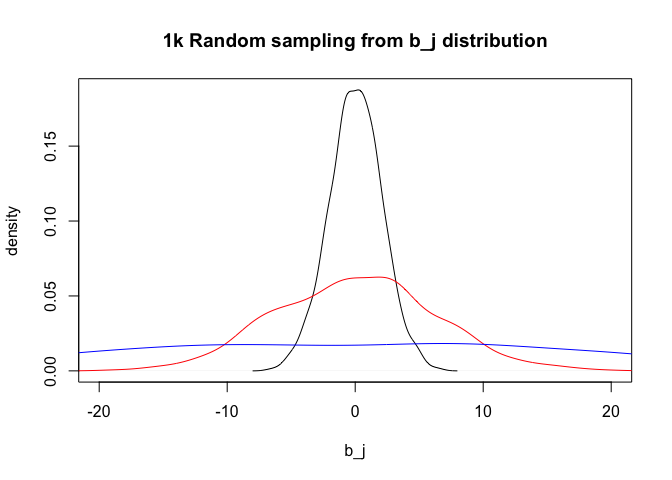
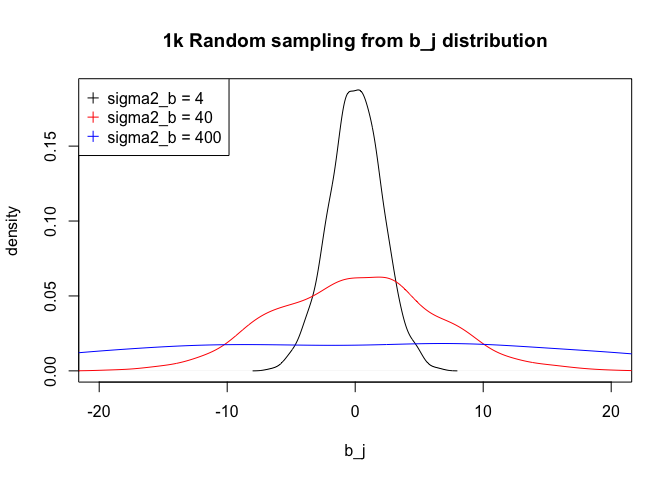
added comments after talk

Changed region(s): [[0.125, 0.1875, 0.3438, 0.3125]]

diff --git a/README.md b/README.md
@@ -16,9 +16,11 @@ Anna Quaglieri
     -   [Comments](#comments)
 -   [Simulate four batches](#simulate-four-batches)
     -   [High disease effect and low between batches variability](#high-disease-effect-and-low-between-batches-variability)
+    -   [Block as random effect](#block-as-random-effect-1)
     -   [High disease effect and high between batches variability](#high-disease-effect-and-high-between-batches-variability)
     -   [Low disease effect and high between batches variability](#low-disease-effect-and-high-between-batches-variability)
     -   [Low disease effect and low between batches variability](#low-disease-effect-and-low-between-batches-variability)
+    -   [Comments](#comments-1)
 
 Confounded design
 =================
@@ -190,8 +192,8 @@ summary(mod1)
 
 ``` r
 mod1 <- lm(value ~ factor(Treatment),data=x[x$blocks == 1,])
-sigma <- sum(mod1$residuals^2)/(nrow(x[x$blocks == 0,])-2)
-x2 <- x[x$blocks == 0,]
+sigma <- sum(mod1$residuals^2)/(nrow(x[x$blocks == 1,])-2)
+x2 <- x[x$blocks == 1,]
 x2[,2] <- as.numeric(as.character(x2[,2]))
 X <- as.matrix(cbind(1,x2[,2]))
 
@@ -202,8 +204,9 @@ sqrt(unscaled_var*sigma)
 
     ## Warning in sqrt(unscaled_var * sigma): NaNs produced
 
-    ##      [,1]
-    ## [1,]  NaN
+    ##           [,1]      [,2]
+    ## [1,] 0.1960459       NaN
+    ## [2,]       NaN 0.2772508
 
 ``` r
 summary(mod1)
@@ -326,6 +329,7 @@ set.seed(100)
 plot(density(rnorm(1000,mean = 0,sd = sqrt(4))),xlab="b_j",ylab="density",main="1k Random sampling from b_j distribution",xlim=c(-20,20))
 lines(density(rnorm(1000,mean = 0,sd = sqrt(40))),col=2)
 lines(density(rnorm(1000,mean = 0,sd = sqrt(400))),col=4)
+legend("topleft",legend=c("sigma2_b = 4","sigma2_b = 40","sigma2_b = 400"),pch = rep(3,16),col=c(1,2,4))
 ```
 
 ![](README_files/figure-markdown_github/unnamed-chunk-14-1.png)
@@ -340,7 +344,7 @@ sigma2_b <- 4
 sigma2_e <- 4
 ```
 
--   Random *b*<sub>*j**s*</sub>. The random intercepts below are quite close to each other, meaning that the batch effect might not be that small. The random effects could be increases by increasing *s**i**g**m**a*<sub>*b*</sub>
+-   Random *b*<sub>*j**s*</sub>. The random intercepts below are quite close to each other, meaning that the batch effect will be quite small. The random effects could be increased by increasing *s**i**g**m**a*<sub>*b*</sub>
 
 ``` r
 set.seed(100)
@@ -387,22 +391,22 @@ table(datax$Treatment,datax$blocks)
     ##   1 25  0
 
 ``` r
-summary(lm(value ~ Treatment + blocks,data=datax))
+summary(lm(value ~ factor(Treatment) + factor(blocks),data=datax))
 ```
 
     ## 
     ## Call:
-    ## lm(formula = value ~ Treatment + blocks, data = datax)
+    ## lm(formula = value ~ factor(Treatment) + factor(blocks), data = datax)
     ## 
     ## Residuals:
     ##     Min      1Q  Median      3Q     Max 
     ## -3.3889 -1.0925 -0.0366  1.1621  4.4042 
     ## 
     ## Coefficients:
-    ##             Estimate Std. Error t value Pr(>|t|)    
-    ## (Intercept)  -0.7880     0.3120  -2.526  0.01373 *  
-    ## Treatment1    8.0000     0.4412  18.133  < 2e-16 ***
-    ## blocks2       1.3820     0.4412   3.133  0.00251 ** 
+    ##                    Estimate Std. Error t value Pr(>|t|)    
+    ## (Intercept)         -0.7880     0.3120  -2.526  0.01373 *  
+    ## factor(Treatment)1   8.0000     0.4412  18.133  < 2e-16 ***
+    ## factor(blocks)2      1.3820     0.4412   3.133  0.00251 ** 
     ## ---
     ## Signif. codes:  0 '***' 0.001 '**' 0.01 '*' 0.05 '.' 0.1 ' ' 1
     ## 
@@ -504,22 +508,22 @@ table(datax$Treatment,datax$blocks)
     ##   1 25  0
 
 ``` r
-summary(lm(value ~ Treatment + blocks,data=datax))
+summary(lm(value ~ factor(Treatment) + factor(blocks),data=datax))
 ```
 
     ## 
     ## Call:
-    ## lm(formula = value ~ Treatment + blocks, data = datax)
+    ## lm(formula = value ~ factor(Treatment) + factor(blocks), data = datax)
     ## 
     ## Residuals:
     ##     Min      1Q  Median      3Q     Max 
     ## -3.3889 -1.0925 -0.0366  1.1621  4.4042 
     ## 
     ## Coefficients:
-    ##             Estimate Std. Error t value Pr(>|t|)    
-    ## (Intercept)  -2.9598     0.3120  -9.488 2.60e-14 ***
-    ## Treatment1    8.0000     0.4412  18.133  < 2e-16 ***
-    ## blocks2       4.1226     0.4412   9.345 4.78e-14 ***
+    ##                    Estimate Std. Error t value Pr(>|t|)    
+    ## (Intercept)         -2.9598     0.3120  -9.488 2.60e-14 ***
+    ## factor(Treatment)1   8.0000     0.4412  18.133  < 2e-16 ***
+    ## factor(blocks)2      4.1226     0.4412   9.345 4.78e-14 ***
     ## ---
     ## Signif. codes:  0 '***' 0.001 '**' 0.01 '*' 0.05 '.' 0.1 ' ' 1
     ## 
@@ -615,22 +619,22 @@ table(datax$Treatment,datax$blocks)
     ##   1 25  0
 
 ``` r
-summary(lm(value ~ Treatment + blocks,data=datax))
+summary(lm(value ~ factor(Treatment) + factor(blocks),data=datax))
 ```
 
     ## 
     ## Call:
-    ## lm(formula = value ~ Treatment + blocks, data = datax)
+    ## lm(formula = value ~ factor(Treatment) + factor(blocks), data = datax)
     ## 
     ## Residuals:
     ##     Min      1Q  Median      3Q     Max 
     ## -3.3889 -1.0925 -0.0366  1.1621  4.4042 
     ## 
     ## Coefficients:
-    ##             Estimate Std. Error t value Pr(>|t|)    
-    ## (Intercept)  -9.8275     0.3120  -31.50   <2e-16 ***
-    ## Treatment1    8.0000     0.4412   18.13   <2e-16 ***
-    ## blocks2      12.7891     0.4412   28.99   <2e-16 ***
+    ##                    Estimate Std. Error t value Pr(>|t|)    
+    ## (Intercept)         -9.8275     0.3120  -31.50   <2e-16 ***
+    ## factor(Treatment)1   8.0000     0.4412   18.13   <2e-16 ***
+    ## factor(blocks)2     12.7891     0.4412   28.99   <2e-16 ***
     ## ---
     ## Signif. codes:  0 '***' 0.001 '**' 0.01 '*' 0.05 '.' 0.1 ' ' 1
     ## 
@@ -674,10 +678,18 @@ Comments
 
 -   In the examples above we increased *s**i**g**m**a*<sub>*b*</sub><sup>2</sup> to allow for higher variability between batches. It is interesting to observe that, as the variability between batches tends to infinity, the effect size estimated by the mixed model approaches the fixed effect estimate.
 
--   One intuitive way to think about it
+-   This case is very limited in how accurately we the *σ*<sub>*b*</sub><sup>2</sup> and *σ*<sub>*e*</sub><sup>2</sup> are estimated since we only have 2 observations (2 blocks) from which we have to estimate both of them. Both blocks contain both *σ*<sub>*b*</sub><sup>2</sup> + *σ*<sub>*e*</sub><sup>2</sup>. That's why they are so different in the REML estimate. There are still a lot of issues in the way these two components are estimated (Terry's is trying to figure out the algebra). This could be also a problem in the way the actual std.error estimates of the estimators are estimated and we might doubt a fixed effects model with only two blocks.
+
+-   **But, does this problem becomes better if we have two blocks but across thousands of genes? The assumption done in Limma-Dupl correlations is that the *ρ* is the same across genes. Does that increase the number that we use to make estimates?** - to be better understood maybe by
+
+-   The use of fixed and random really depends on the context in which we are. Say, that in this case we only have two batches, that's all we got, then the fixed effect way is the closest approach that we can use. If we instead think that these two batches are two random observations out of a common distribution then the random effect is the design that you would think of. In the fixed effect we use one block as the baseline and we estimate the batch effect as a delta of difference in the other batches. However, with the random model we assign its own *b*<sub>*j*</sub> to every batch.
 
 Simulate four batches
 =====================
+
+![](img/four-batches.png)
+
+-   Identifiability issue raised by Jinjin. The random variable from every batch will have the same sum of *σ*<sub>*b*</sub><sup>2</sup> + *σ*<sub>*e**p**s**i**l**o**n*</sub><sup>2</sup> and that's why their estimation does not happen in the usual way as in the OLS.
 
 High disease effect and low between batches variability
 -------------------------------------------------------
@@ -748,6 +760,69 @@ ggplot(datax,aes(x=factor(blocks),y=value,fill=factor(Treatment))) + geom_boxplo
 
 ![](README_files/figure-markdown_github/unnamed-chunk-35-1.png)
 
+``` r
+mod1 <- lm(value ~ factor(Treatment) + factor(blocks),data=datax)
+
+summary(mod1)
+```
+
+    ## 
+    ## Call:
+    ## lm(formula = value ~ factor(Treatment) + factor(blocks), data = datax)
+    ## 
+    ## Residuals:
+    ##      Min       1Q   Median       3Q      Max 
+    ## -2.39630 -0.76240 -0.03108  0.82316  3.12778 
+    ## 
+    ## Coefficients:
+    ##                    Estimate Std. Error t value Pr(>|t|)    
+    ## (Intercept)         -0.5437     0.1749  -3.108  0.00217 ** 
+    ## factor(Treatment)1  29.9730     0.1749 171.330  < 2e-16 ***
+    ## factor(blocks)2      0.9637     0.2766   3.484  0.00061 ***
+    ## factor(blocks)3      0.5986     0.2143   2.794  0.00573 ** 
+    ## factor(blocks)4      2.0048     0.2143   9.357  < 2e-16 ***
+    ## factor(blocks)5      0.8621     0.2766   3.117  0.00211 ** 
+    ## ---
+    ## Signif. codes:  0 '***' 0.001 '**' 0.01 '*' 0.05 '.' 0.1 ' ' 1
+    ## 
+    ## Residual standard error: 1.071 on 194 degrees of freedom
+    ## Multiple R-squared:  0.9947, Adjusted R-squared:  0.9946 
+    ## F-statistic:  7348 on 5 and 194 DF,  p-value: < 2.2e-16
+
+Block as random effect
+----------------------
+
+``` r
+datax$blocks <- factor(datax$blocks)
+fm1 <- lmer(value ~ factor(Treatment) + (1 | blocks), data = datax)
+summary(fm1)
+```
+
+    ## Linear mixed model fit by REML ['lmerMod']
+    ## Formula: value ~ factor(Treatment) + (1 | blocks)
+    ##    Data: datax
+    ## 
+    ## REML criterion at convergence: 609.6
+    ## 
+    ## Scaled residuals: 
+    ##      Min       1Q   Median       3Q      Max 
+    ## -2.23137 -0.70820 -0.03701  0.75827  2.92730 
+    ## 
+    ## Random effects:
+    ##  Groups   Name        Variance Std.Dev.
+    ##  blocks   (Intercept) 0.5194   0.7207  
+    ##  Residual             1.1472   1.0711  
+    ## Number of obs: 200, groups:  blocks, 5
+    ## 
+    ## Fixed effects:
+    ##                    Estimate Std. Error t value
+    ## (Intercept)          0.3421     0.3362   1.018
+    ## factor(Treatment)1  29.9715     0.1735 172.766
+    ## 
+    ## Correlation of Fixed Effects:
+    ##             (Intr)
+    ## fctr(Trtm)1 -0.157
+
 High disease effect and high between batches variability
 --------------------------------------------------------
 
@@ -815,41 +890,36 @@ datax <- data.frame(value = value,
 ggplot(datax,aes(x=factor(blocks),y=value,fill=factor(Treatment))) + geom_boxplot()
 ```
 
-![](README_files/figure-markdown_github/unnamed-chunk-37-1.png)
+![](README_files/figure-markdown_github/unnamed-chunk-39-1.png)
 
 ``` r
-summary(lm(value ~ Treatment + blocks,data=datax))
+summary(lm(value ~ factor(Treatment) + factor(blocks),data=datax))
 ```
 
     ## 
     ## Call:
-    ## lm(formula = value ~ Treatment + blocks, data = datax)
+    ## lm(formula = value ~ factor(Treatment) + factor(blocks), data = datax)
     ## 
     ## Residuals:
-    ##    Min     1Q Median     3Q    Max 
-    ## -9.079 -3.464 -1.509  5.120  9.697 
+    ##      Min       1Q   Median       3Q      Max 
+    ## -2.39630 -0.76240 -0.03108  0.82316  3.12778 
     ## 
     ## Coefficients:
-    ##             Estimate Std. Error t value Pr(>|t|)    
-    ## (Intercept)  -9.7794     0.9080  -10.77   <2e-16 ***
-    ## Treatment    31.1225     0.7403   42.04   <2e-16 ***
-    ## blocks        3.8441     0.2628   14.62   <2e-16 ***
+    ##                    Estimate Std. Error t value Pr(>|t|)    
+    ## (Intercept)         -6.9356     0.1749  -39.65   <2e-16 ***
+    ## factor(Treatment)1  29.9730     0.1749  171.33   <2e-16 ***
+    ## factor(blocks)2      9.0297     0.2766   32.64   <2e-16 ***
+    ## factor(blocks)3      5.9860     0.2143   27.94   <2e-16 ***
+    ## factor(blocks)4     19.6836     0.2143   91.87   <2e-16 ***
+    ## factor(blocks)5      8.7428     0.2766   31.61   <2e-16 ***
     ## ---
     ## Signif. codes:  0 '***' 0.001 '**' 0.01 '*' 0.05 '.' 0.1 ' ' 1
     ## 
-    ## Residual standard error: 5.033 on 197 degrees of freedom
-    ## Multiple R-squared:  0.9043, Adjusted R-squared:  0.9033 
-    ## F-statistic: 930.8 on 2 and 197 DF,  p-value: < 2.2e-16
+    ## Residual standard error: 1.071 on 194 degrees of freedom
+    ## Multiple R-squared:  0.9957, Adjusted R-squared:  0.9956 
+    ## F-statistic:  9049 on 5 and 194 DF,  p-value: < 2.2e-16
 
 -   Resisuals after using fixed effects
-
-``` r
-mod <- lm(value ~ blocks,data=datax)
-datax$res <- mod$residuals
-ggplot(datax,aes(x=factor(blocks),y=res,fill=factor(Treatment))) + geom_boxplot()
-```
-
-![](README_files/figure-markdown_github/unnamed-chunk-39-1.png)
 
 ``` r
 fm1 <- lmer(value ~ factor(Treatment) + (1 | blocks), data = datax)
@@ -948,31 +1018,34 @@ datax <- data.frame(value = value,
 ggplot(datax,aes(x=factor(blocks),y=value,fill=factor(Treatment))) + geom_boxplot()
 ```
 
-![](README_files/figure-markdown_github/unnamed-chunk-42-1.png)
+![](README_files/figure-markdown_github/unnamed-chunk-43-1.png)
 
 ``` r
-summary(lm(value ~ Treatment + blocks,data=datax))
+summary(lm(value ~ factor(Treatment) + factor(blocks),data=datax))
 ```
 
     ## 
     ## Call:
-    ## lm(formula = value ~ Treatment + blocks, data = datax)
+    ## lm(formula = value ~ factor(Treatment) + factor(blocks), data = datax)
     ## 
     ## Residuals:
-    ##    Min     1Q Median     3Q    Max 
-    ## -9.079 -3.464 -1.509  5.120  9.697 
+    ##      Min       1Q   Median       3Q      Max 
+    ## -2.39630 -0.76240 -0.03108  0.82316  3.12778 
     ## 
     ## Coefficients:
-    ##             Estimate Std. Error t value Pr(>|t|)    
-    ## (Intercept)  -9.7794     0.9080 -10.770  < 2e-16 ***
-    ## Treatment     5.1225     0.7403   6.919 6.22e-11 ***
-    ## blocks        3.8441     0.2628  14.625  < 2e-16 ***
+    ##                    Estimate Std. Error t value Pr(>|t|)    
+    ## (Intercept)         -6.9356     0.1749  -39.65   <2e-16 ***
+    ## factor(Treatment)1   3.9730     0.1749   22.71   <2e-16 ***
+    ## factor(blocks)2      9.0297     0.2766   32.64   <2e-16 ***
+    ## factor(blocks)3      5.9860     0.2143   27.94   <2e-16 ***
+    ## factor(blocks)4     19.6836     0.2143   91.87   <2e-16 ***
+    ## factor(blocks)5      8.7428     0.2766   31.61   <2e-16 ***
     ## ---
     ## Signif. codes:  0 '***' 0.001 '**' 0.01 '*' 0.05 '.' 0.1 ' ' 1
     ## 
-    ## Residual standard error: 5.033 on 197 degrees of freedom
-    ## Multiple R-squared:  0.5504, Adjusted R-squared:  0.5459 
-    ## F-statistic: 120.6 on 2 and 197 DF,  p-value: < 2.2e-16
+    ## Residual standard error: 1.071 on 194 degrees of freedom
+    ## Multiple R-squared:  0.9799, Adjusted R-squared:  0.9794 
+    ## F-statistic:  1896 on 5 and 194 DF,  p-value: < 2.2e-16
 
 ``` r
 fm1 <- lmer(value ~ factor(Treatment) + (1 | blocks), data = datax)
@@ -1071,31 +1144,34 @@ datax <- data.frame(value = value,
 ggplot(datax,aes(x=factor(blocks),y=value,fill=factor(Treatment))) + geom_boxplot()
 ```
 
-![](README_files/figure-markdown_github/unnamed-chunk-46-1.png)
+![](README_files/figure-markdown_github/unnamed-chunk-47-1.png)
 
 ``` r
-summary(lm(value ~ Treatment + blocks,data=datax))
+summary(lm(value ~ factor(Treatment) + factor(blocks),data=datax))
 ```
 
     ## 
     ## Call:
-    ## lm(formula = value ~ Treatment + blocks, data = datax)
+    ## lm(formula = value ~ factor(Treatment) + factor(blocks), data = datax)
     ## 
     ## Residuals:
-    ##     Min      1Q  Median      3Q     Max 
-    ## -2.2379 -0.7967 -0.1706  0.6209  3.7117 
+    ##      Min       1Q   Median       3Q      Max 
+    ## -2.39630 -0.76240 -0.03108  0.82316  3.12778 
     ## 
     ## Coefficients:
-    ##             Estimate Std. Error t value Pr(>|t|)    
-    ## (Intercept) -0.81108    0.21298  -3.808 0.000187 ***
-    ## Treatment    4.08308    0.17366  23.512  < 2e-16 ***
-    ## blocks       0.38441    0.06165   6.235  2.7e-09 ***
+    ##                    Estimate Std. Error t value Pr(>|t|)    
+    ## (Intercept)         -0.5437     0.1749  -3.108  0.00217 ** 
+    ## factor(Treatment)1   3.9730     0.1749  22.710  < 2e-16 ***
+    ## factor(blocks)2      0.9637     0.2766   3.484  0.00061 ***
+    ## factor(blocks)3      0.5986     0.2143   2.794  0.00573 ** 
+    ## factor(blocks)4      2.0048     0.2143   9.357  < 2e-16 ***
+    ## factor(blocks)5      0.8621     0.2766   3.117  0.00211 ** 
     ## ---
     ## Signif. codes:  0 '***' 0.001 '**' 0.01 '*' 0.05 '.' 0.1 ' ' 1
     ## 
-    ## Residual standard error: 1.181 on 197 degrees of freedom
-    ## Multiple R-squared:  0.7414, Adjusted R-squared:  0.7388 
-    ## F-statistic: 282.5 on 2 and 197 DF,  p-value: < 2.2e-16
+    ## Residual standard error: 1.071 on 194 degrees of freedom
+    ## Multiple R-squared:  0.7903, Adjusted R-squared:  0.7849 
+    ## F-statistic: 146.3 on 5 and 194 DF,  p-value: < 2.2e-16
 
 ``` r
 fm1 <- lmer(value ~ factor(Treatment) + (1 | blocks), data = datax)
@@ -1126,3 +1202,10 @@ summary(fm1)
     ## Correlation of Fixed Effects:
     ##             (Intr)
     ## fctr(Trtm)1 -0.157
+
+Comments
+--------
+
+-   As *σ*<sub>*b*</sub><sup>2</sup> goes to infinity the mixed model estimate of the effect of interest approaches the fixed effect model, and in particular $\\bar{y} - \\bar{x}$.
+
+-   In cases when the variability between batches ( *σ*<sub>*b*</sub><sup>2</sup> ) is not that high with respect to the residual variability within bacthes ( *σ*<sub>*ϵ*</sub> ) then the mixed effect models balances and adjusts better the batch effect and provide more precise estimates of the effect of interest.
